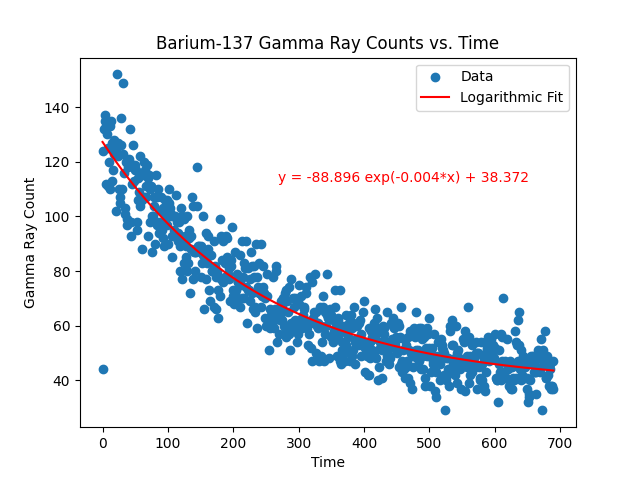
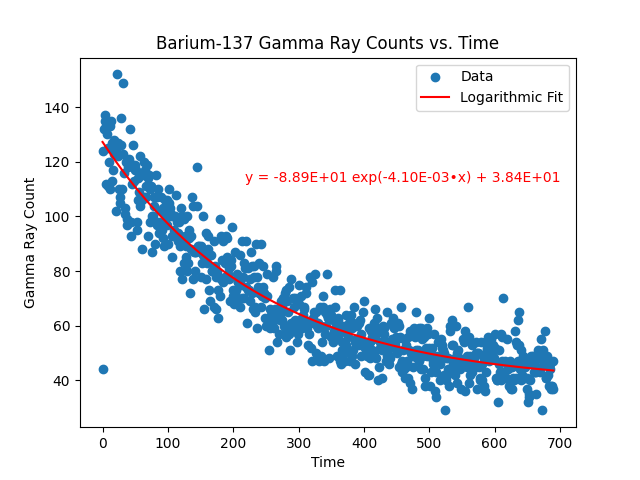
sci notation

Changed region(s): [[0.4062, 0.3438, 0.875, 0.4062]]

diff --git a/Lab_1_Half-Life/Code/dataAnalysis.py b/Lab_1_Half-Life/Code/dataAnalysis.py
@@ -89,7 +89,7 @@ def analyzeData(filename):
     plt.xlabel("Time")
     plt.ylabel("Gamma Ray Count")
     plt.title("Barium-137 Gamma Ray Counts vs. Time")
-    plt.text(x_axis.max() / 3 * 2, y_axis.max() / 4 * 3,f'y = -{a:.3f} exp(-{b:.3f}*x) + {c:.3f}', horizontalalignment='center',
+    plt.text(x_axis.max() / 3 * 2, y_axis.max() / 4 * 3,f'y = -{a:.2E} exp(-{b:.2E}•x) + {c:.2E}', horizontalalignment='center',
      verticalalignment='center', color='red')
     halfLife = np.log(2) / b
     halfLifeErr = np.log(2) / np.power(b, 2) * berr
